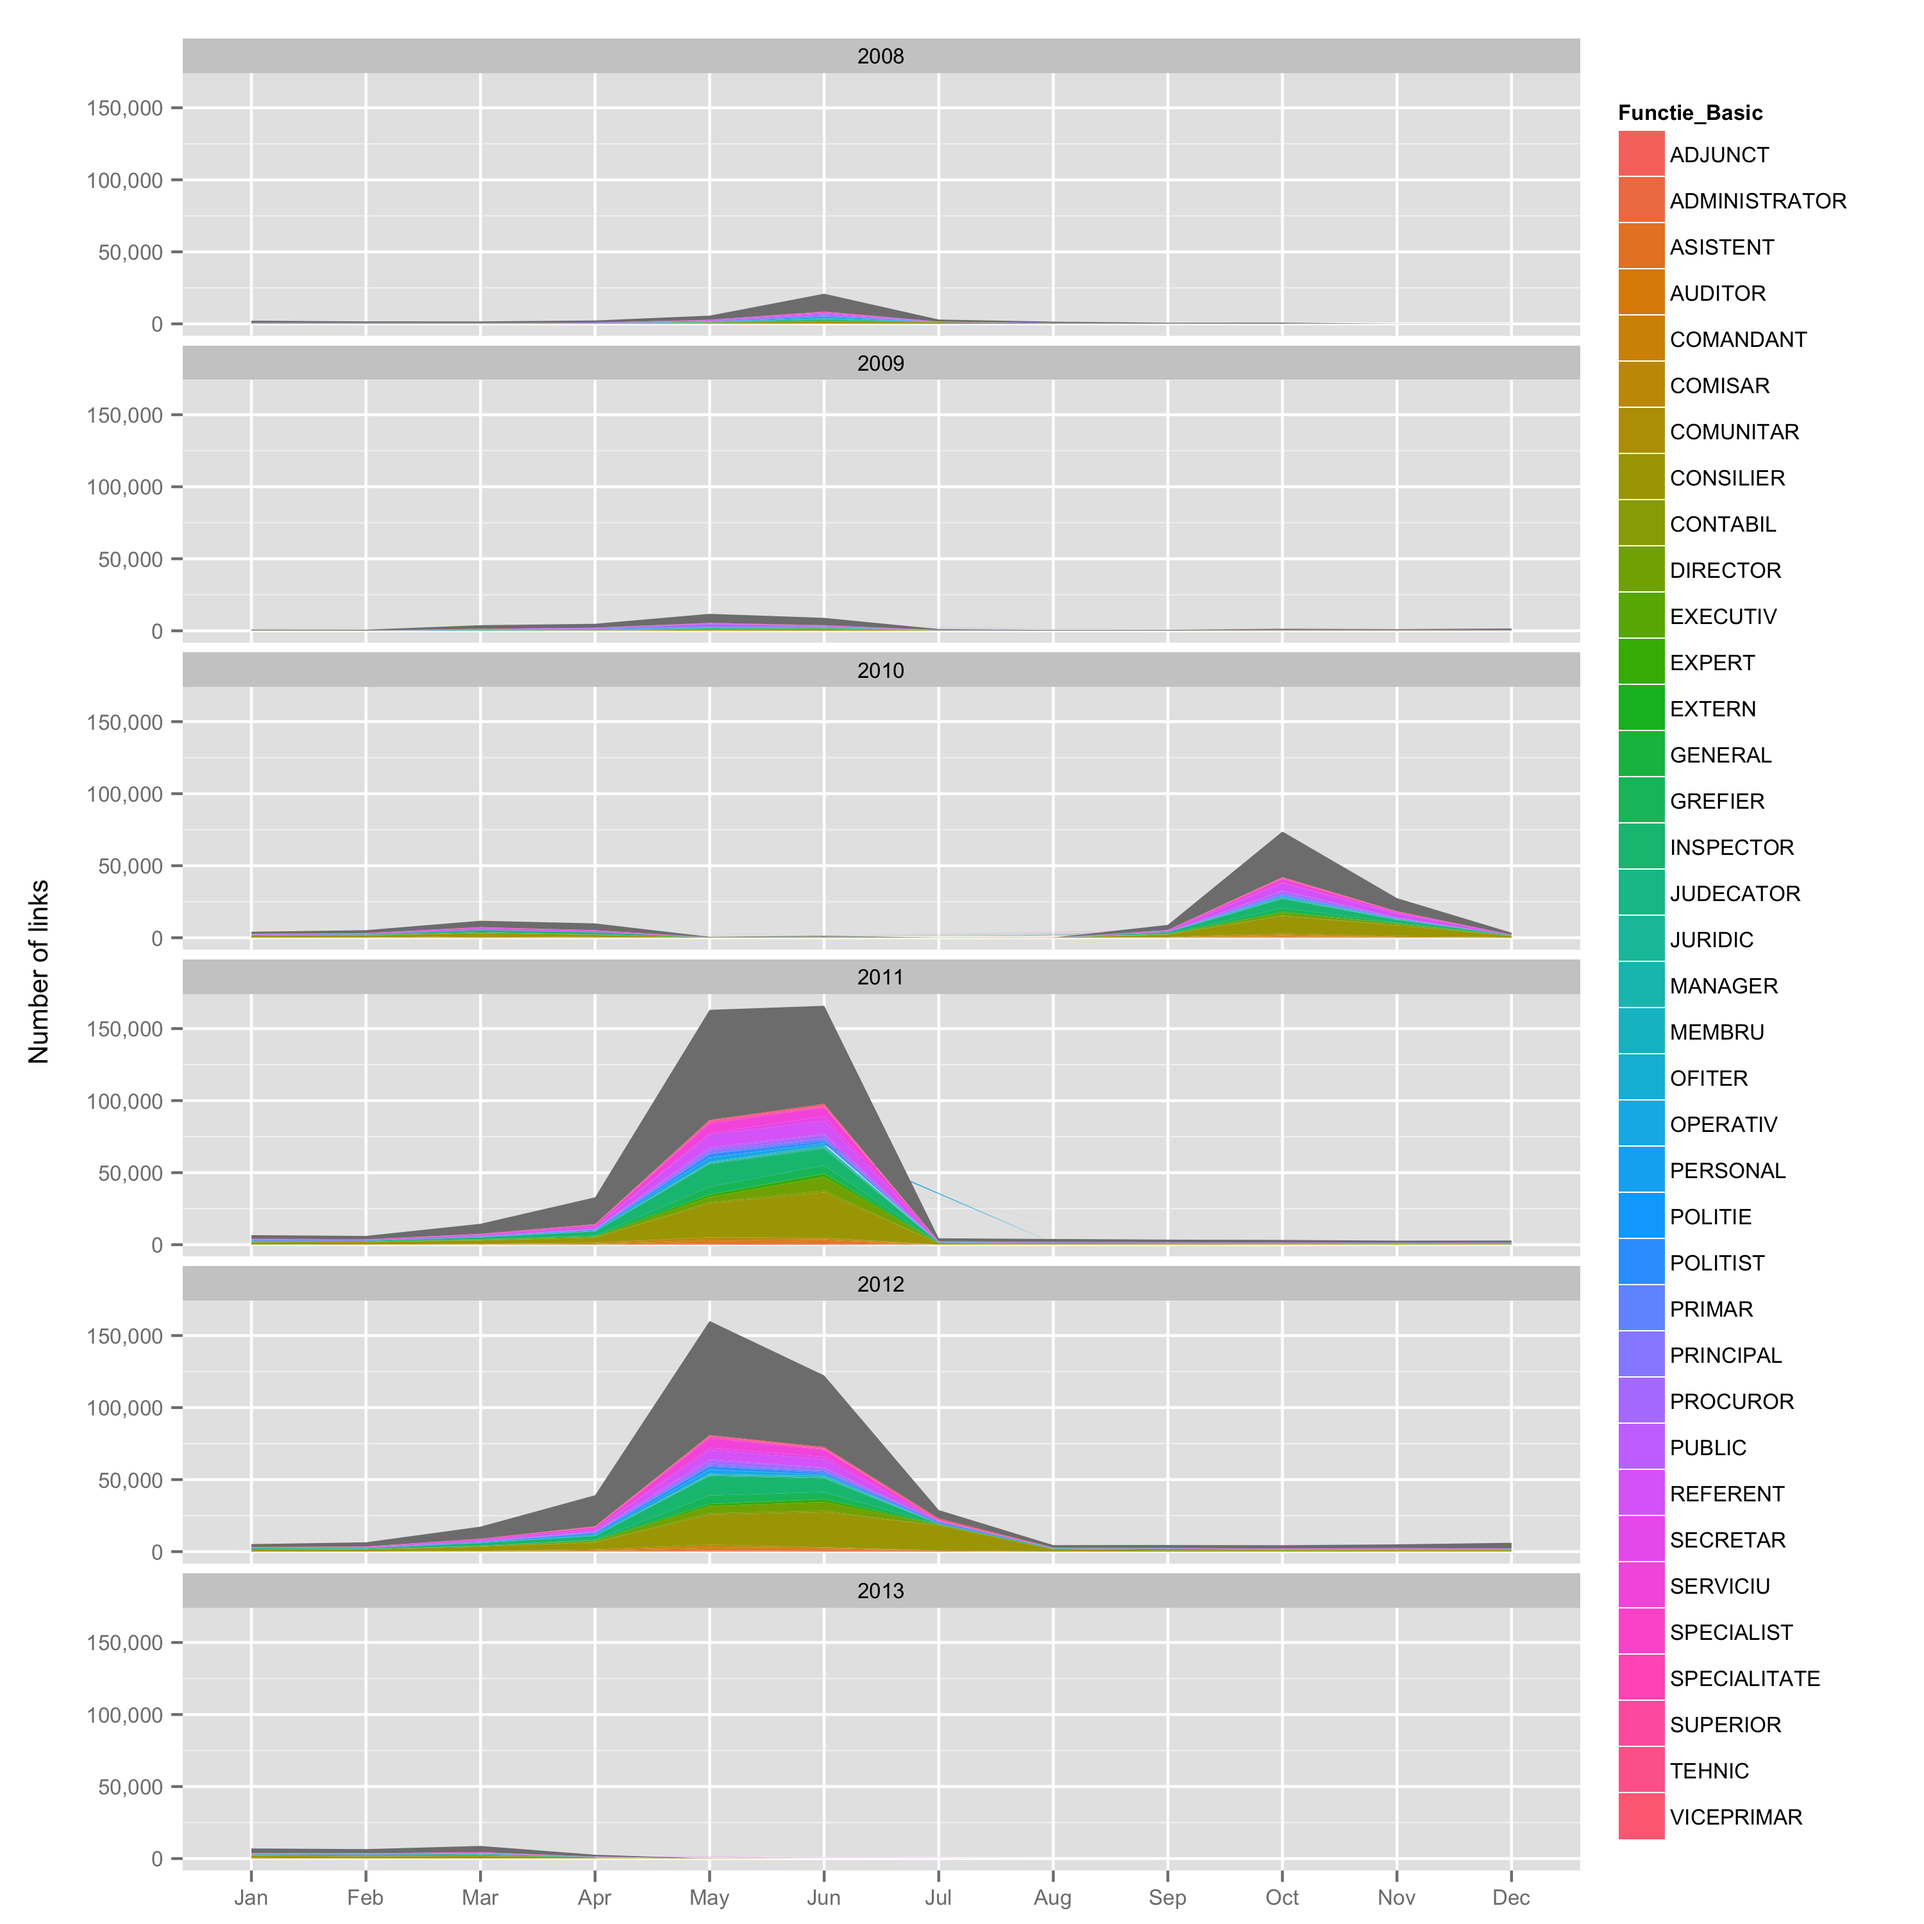
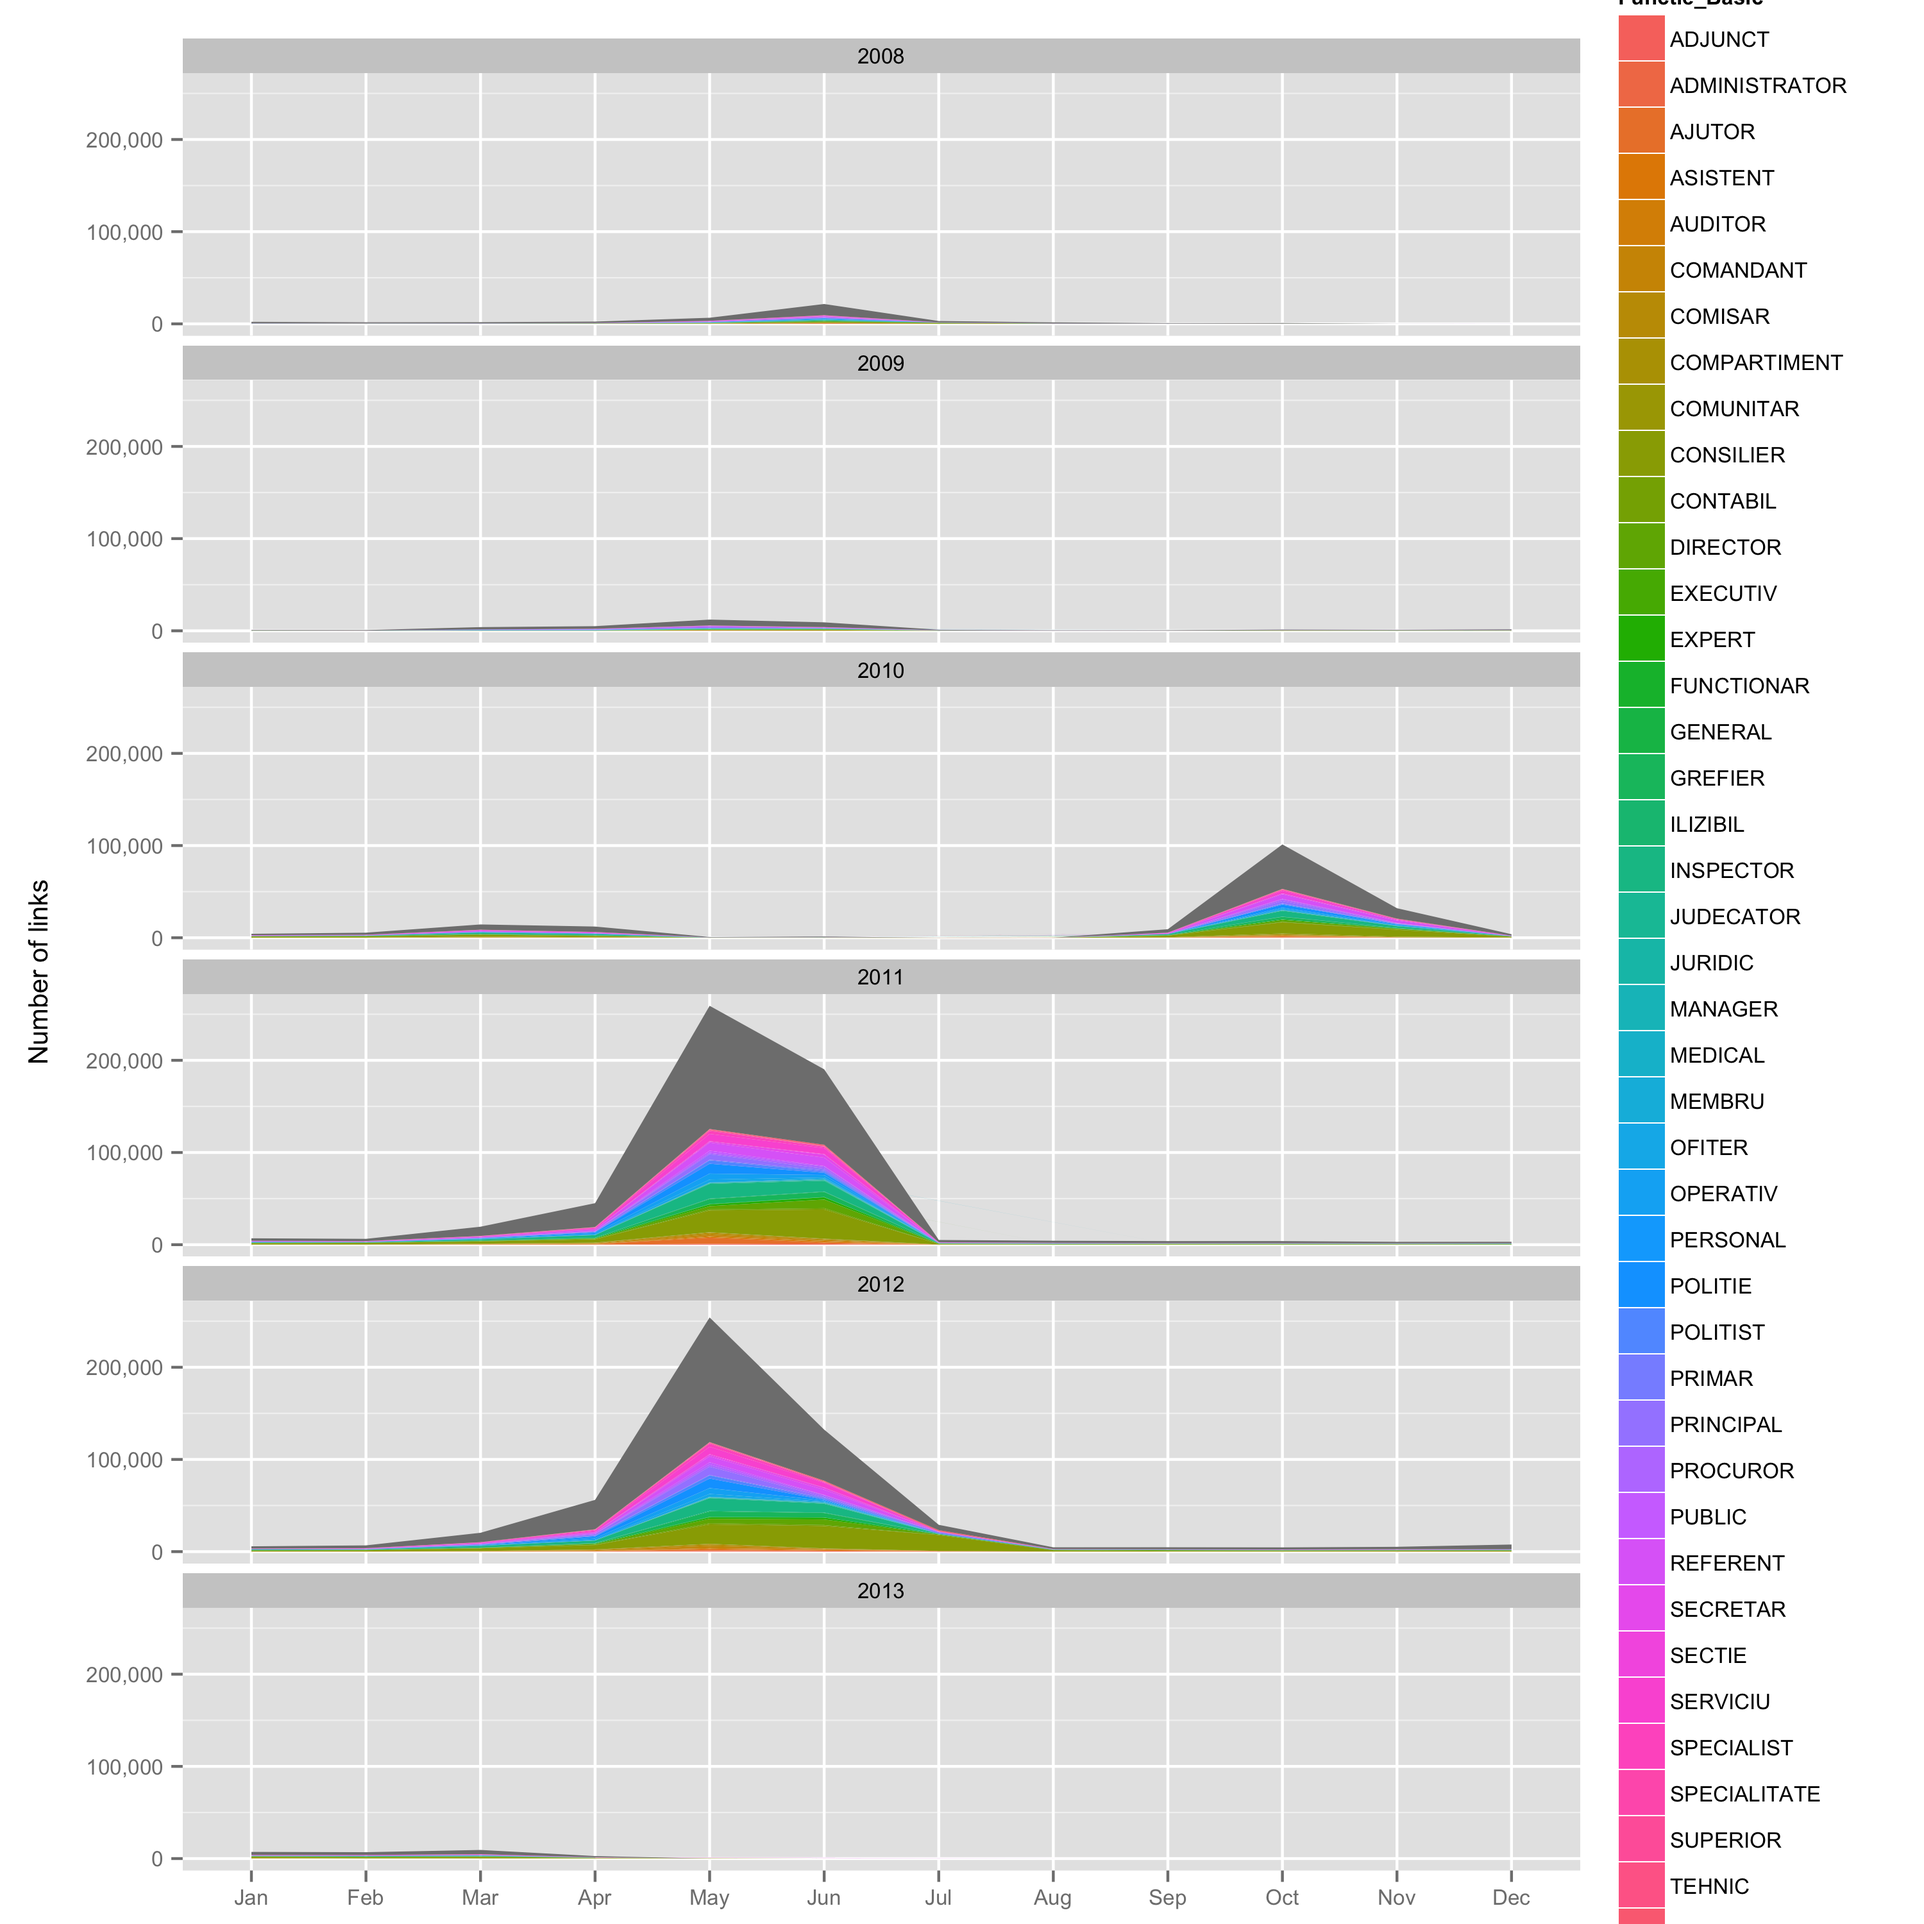
updated data and plots for all categories but 24 and 25
for some reason, the dataset is slightly smaller than a previous test,
more checks to follow

diff --git a/README.md b/README.md
@@ -4,9 +4,24 @@ R scripts to scrape, download and plot links from the Romanian [National Integri
 
 ![](fig9_geo.png)
 
-Breakdowns from the current dataset:
+The current dataset holds _N_ = 1,411,736 links for 30 institutions from 2008 to 2013:
+
+![](fig4_week.png)
+
+The data are not included in the repository, but you can [open an issue](issues) to request it.
+
+## HOWTO
+
+The main entry point is `0.scrape.r`. Make sure to review the opening parameters. This will trigger `1.tables.r` to download the tables, and `2.plots.r` to visualize the aggregated data. The download loop in `3.download.r` for the PDF files should be run separately.
+
+All download functions are wrapped in failsafe `try()` functions and will skip existing files to protect data from previous scrapes. The PDF download loop will also sleep a few seconds between each file.
+
+The scripts were tested by scraping over 1.5 million links for categories `1:23`, `26:32` and `35`. The missing categories are the Central Election Bureau (_n_ ~ 9,000 pages) and uncategorized documents (_n_ ~ 9,000 pages).
+
+Breakdowns by origin and type:
 
 ![](fig1_county.png)
+
 ![](fig2_type.png)
 
 Breakdown by institution: 
@@ -14,47 +29,41 @@ Breakdown by institution:
     > load("integritate.rda")
     > df = aggregate(URL ~ Categorie, length, data = data)
     > df[order(df$URL, decreasing = TRUE), ]
-                                                          Categorie    URL
-                                                 Autoritati publice 358892
-                                      Ministerul Finantelor Publice 131070
-                                Consiliul Superior al Magistraturii  71350
-         Ministerul Educatiei, Cercetarii, Tineretului si Sportului  55187
-         Ministerul Administratiei si Internelor [MISSING 80% DATA]  55184
-                                               Ministerul Justitiei  52691
-                  Ministerul Muncii, Familiei si Protectiei Sociale  43704
-                                                 Companii nationale  39391
-                                                  Guvernul Romaniei  35654
-                                      Ministerul Apararii Nationale  32700
-                      Ministerul Agriculturii si Dezvoltarii Rurale  30891
-                                       Ministerul Public - Parchete  26773
-                                               Ministerul Sanatatii  26765
-                                   Ministerul Mediului si Padurilor  21187
-                                                Autoritati autonome  14582
-                      Ministerul Transporturilor si Infrastructurii  13944
-                                                    Alte Institutii   9999
-                                               Parlamentul Romaniei   9985
-            Ministerul Economiei, Comertului si Mediului de Afaceri   7187
-                     Ministerul Dezvoltarii Regionale si Turismului   6605
-                                                 Institutii publice   5829
-                                      Ministerul Afacerilor Externe   4497
-                      Ministerul Culturii si Patrimoniului National   3012
-             Ministerul Comunicatiilor si Societatii Informationale   2219
-                                Federatii si confederatii sindicale   1656
-                                     Ministerul Afacerilor Europene   1202
-                Autoritatea pentru Valorificarea Activelor Statului   1091
-                                         Banca Nationala a Romaniei   1039
-                                               Presedentia Romaniei    524
-      Banci la care statul este actionar majoritar sau semnificativ    106
+                                                        Categorie    URL
+                          Ministerul Administratiei si Internelor 365329
+                                               Autoritati publice 358892
+                                    Ministerul Finantelor Publice 131070
+                              Consiliul Superior al Magistraturii  71350
+       Ministerul Educatiei, Cercetarii, Tineretului si Sportului  55187
+                                             Ministerul Justitiei  52691
+                Ministerul Muncii, Familiei si Protectiei Sociale  43704
+                                               Companii nationale  39391
+                                                Guvernul Romaniei  35654
+                                    Ministerul Apararii Nationale  32700
+                    Ministerul Agriculturii si Dezvoltarii Rurale  30891
+                                     Ministerul Public - Parchete  26773
+                                             Ministerul Sanatatii  26765
+                                 Ministerul Mediului si Padurilor  21187
+                                              Autoritati autonome  14582
+                    Ministerul Transporturilor si Infrastructurii  13944
+                                                  Alte Institutii   9999
+                                             Parlamentul Romaniei   9985
+          Ministerul Economiei, Comertului si Mediului de Afaceri   7187
+                   Ministerul Dezvoltarii Regionale si Turismului   6605
+                                               Institutii publice   5829
+                                    Ministerul Afacerilor Externe   4497
+                    Ministerul Culturii si Patrimoniului National   3012
+           Ministerul Comunicatiilor si Societatii Informationale   2219
+                              Federatii si confederatii sindicale   1656
+                                   Ministerul Afacerilor Europene   1202
+              Autoritatea pentru Valorificarea Activelor Statului   1091
+                                       Banca Nationala a Romaniei   1039
+                                             Presedentia Romaniei    524
+    Banci la care statul este actionar majoritar sau semnificativ    106
 
-## HOWTO
+The breakdowns exclude declarations from the European Parliament, or from before 2008. In both cases, the number of links is very low and the data are probably not representative.
 
-The main entry point is `0.scrape.r`. Make sure to review the opening parameters. This will trigger `1.tables.r` to download the tables, and `2.plots.r` to visualize the aggregated data. The download loop in `3.download.r` for the PDF files should be run separately. All download functions are wrapped in failsafe `try()` functions and will skip existing files to protect data from previous scrapes. The PDF download loop sleeps three seconds between each file.
-
-The scripts were tested by scraping over one million links for categories `1:6`, `8:23`, `26:32` and `35` as well as the three smallest subcategories of category `7` (Ministry of the Interior). The missing categories are the largest subcategory of the Ministry of the Interior (_Autoritati_, _n_ ~ 6,400 pages), the Central Election Bureau (_n_ ~ 9,000 pages), and uncategorized documents (_n_ ~ 9,000 pages). The final dataset holds _N_ = 1,064,916 links for years 2008–2013:
-
-![](fig4_week.png)
-
-The data are not included in the repository, but you can [open an issue](issues) to request it.
+The script `4.elections.r` will produce a separate dataset for the [declarations of candidates to the 2012 legislative election](http://declaratii.integritate.eu/home/navigare/alegeri-2012.aspx).
 
 ## NOTES
 
@@ -65,4 +74,4 @@ Backup line for the extended repo (code, processed dataset, figures):
 
 From a sample of slightly below 2,000 files filled in by employees of the Ministry of External Affairs, average PDF file size is about 1.7 MB.
 
-> _Last edited 2013-12-16_
+> _Last edited 2013-12-25_
